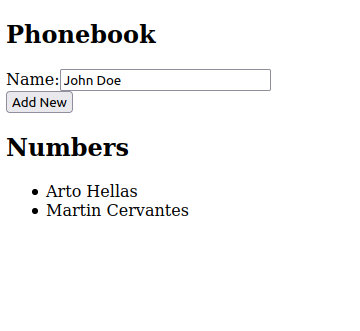
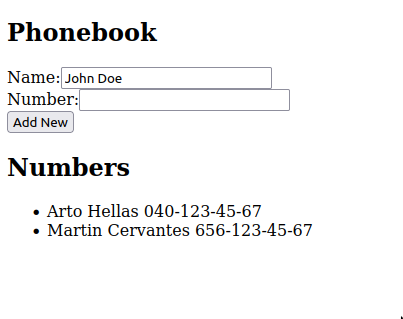
Add exercise 2.8 phonebook step 3

Changed region(s): [[0.0, 0.1975, 0.7944, 0.7618], [0.0, 0.0564, 0.4278, 0.1411], [0.9778, 0.9875, 1.0, 1.0]]

diff --git a/part2/phonebook/src/App.js b/part2/phonebook/src/App.js
@@ -2,9 +2,10 @@ import React, { useState } from 'react'
 
 const App = () => {
   const [ persons, setPersons ] = useState([
-    { name: 'Arto Hellas' }
+    { name: 'Arto Hellas', number: '040-123-45-67' }
   ])
   const [ newName, setNewName ] = useState('')
+  const [ newNumber, setNewNumber ] = useState('')
 
   const includesName = () => {
     for (let i = 0; i < persons.length; i += 1) {
@@ -20,13 +21,18 @@ const App = () => {
     if (includesName()) {
       alert(`${newName} is already added to phonebook`)
     } else {
-      setPersons([...persons, { name: event.target.name.value }])
+      setPersons([...persons, { name: event.target.name.value, number: event.target.number.value }])
       setNewName('')
+      setNewNumber('')
     }
   }
 
-  const handleChange = (event) => {
+  const handleChangeName = (event) => {
     setNewName(event.target.value)
+  }
+
+  const handleChangeNumber = (event) => {
+    setNewNumber(event.target.value)
   }
 
   return (
@@ -41,7 +47,18 @@ const App = () => {
             id="name"
             name="name"
             value={newName}
-            onChange={handleChange}
+            onChange={handleChangeName}
+          />
+        </div>
+
+        <div>
+          <label htmlFor="number">Number:</label>
+
+          <input
+            id="number"
+            name="number"
+            value={newNumber}
+            onChange={handleChangeNumber}
           />
         </div>
 
@@ -53,7 +70,7 @@ const App = () => {
       <h2>Numbers</h2>
 
       <ul>
-        { persons.map((p, index)=> <li key={index}>{p.name}</li>) }
+        { persons.map((p, index)=> <li key={index}>{p.name} {p.number}</li>) }
       </ul>
     </div>
   )
